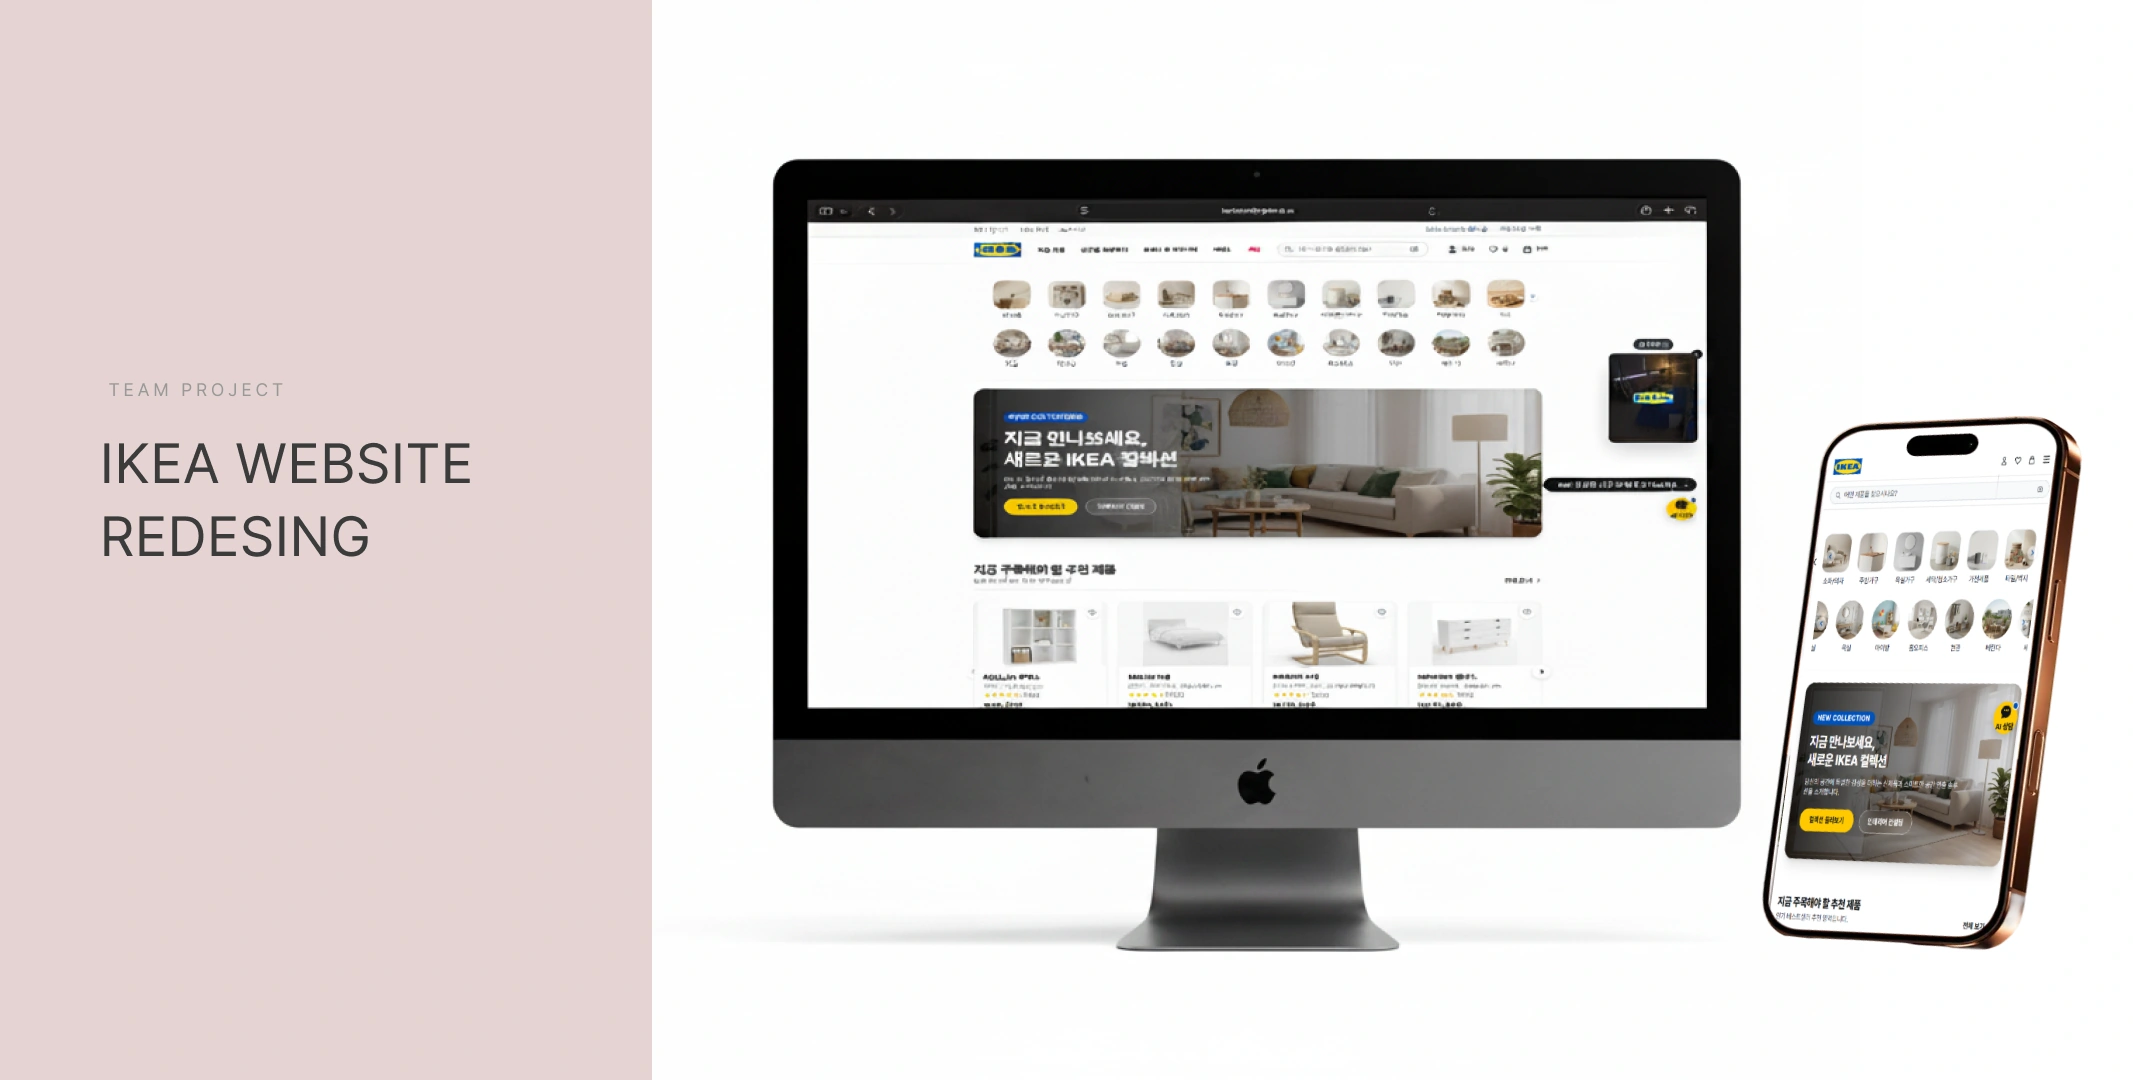
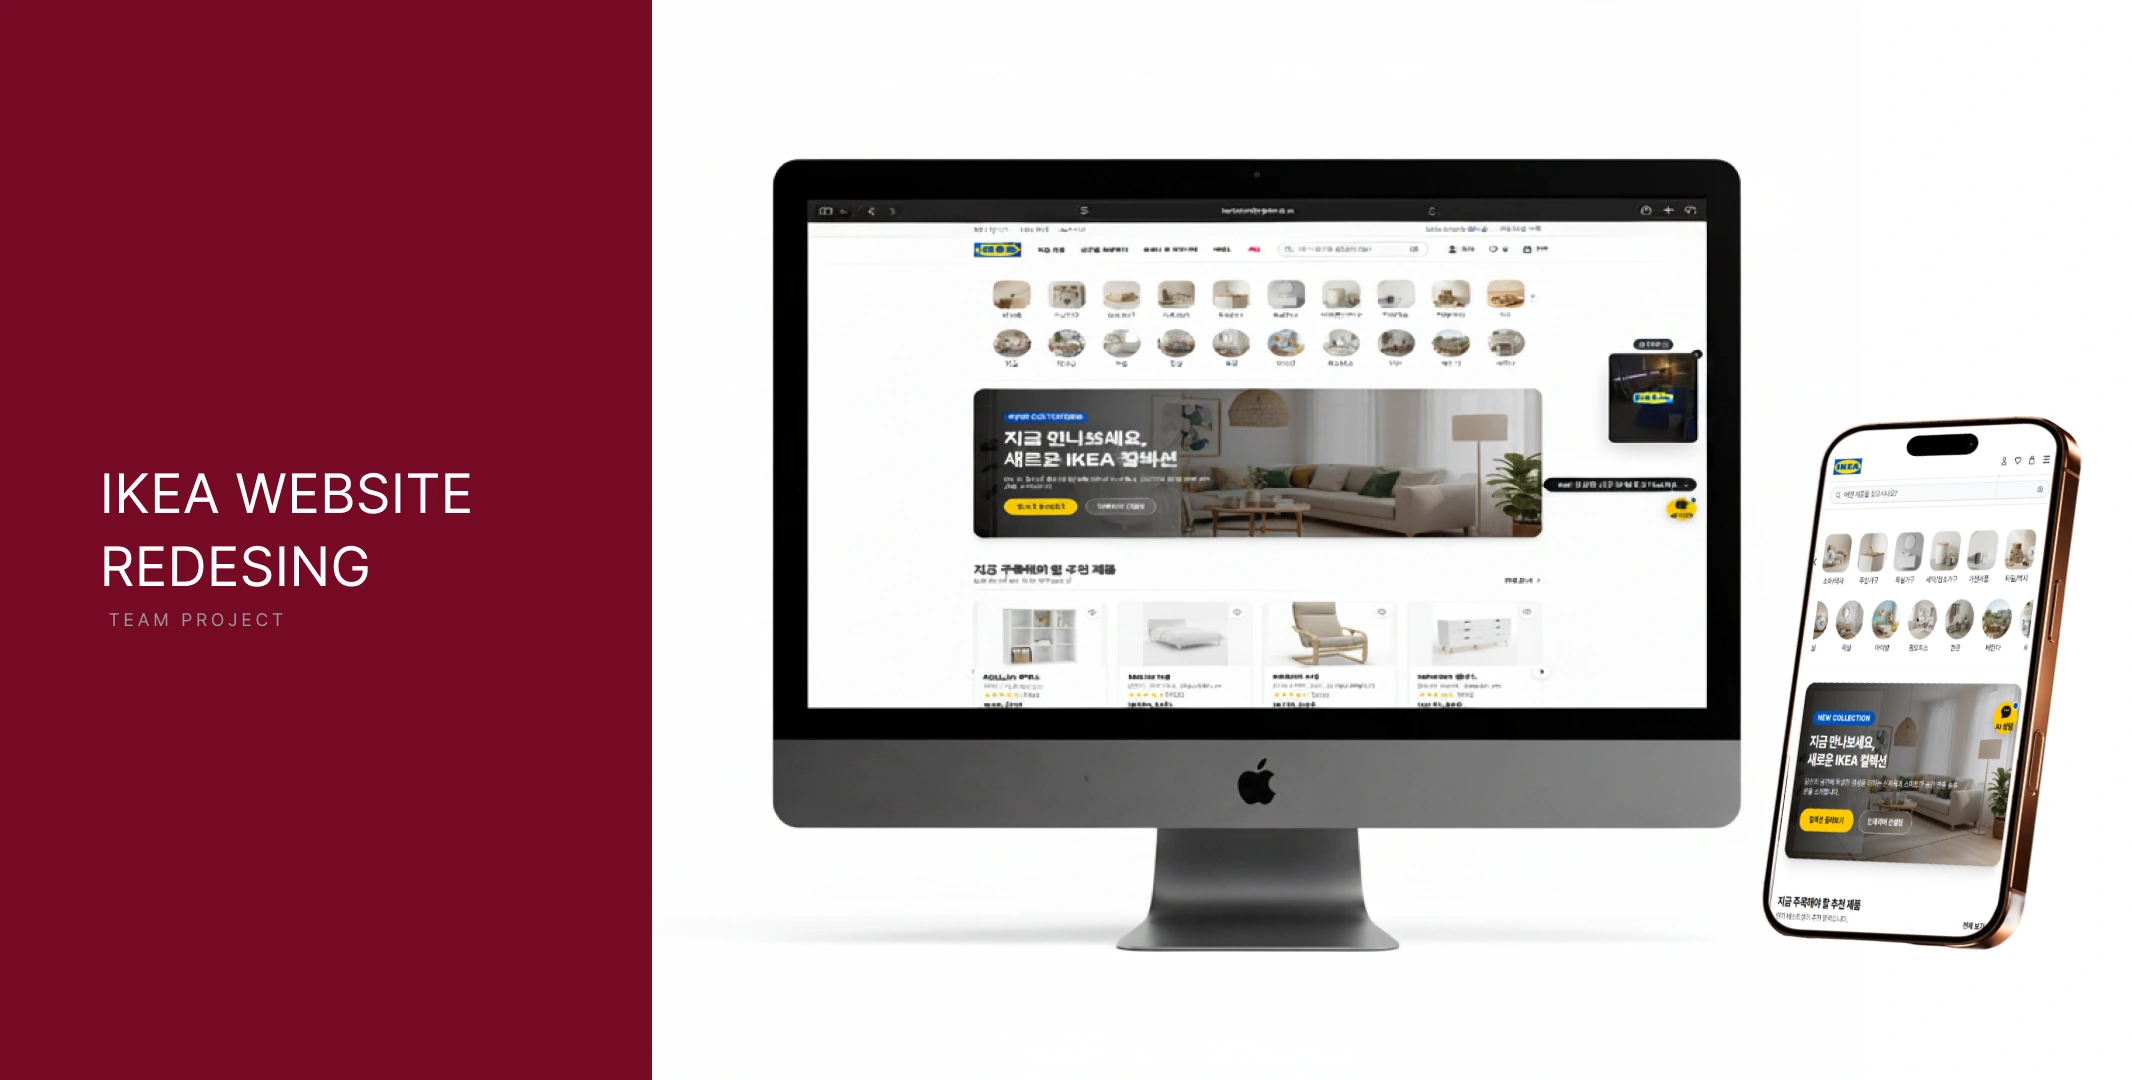
feat: iKEA 목업을 갱신본으로 교체하고 패널 버튼을 새 배색·위치에 맞춤
목업이 갱신되며 패널이 분홍(#E5D4D2) -> 크림슨(#770A25)으로 바뀌고
글자도 흰색이 됐다. 글자 마지막 줄도 y 51.5% -> 58.0% 로 내려왔다.

- 이미지: 새 목업을 webp(q95)로 변환해 교체, 1,254KB -> 121KB.
  해상도 2133x1080 은 그대로라 frame 값은 그대로 둔다.
- 세로: 글자가 내려온 만큼 top 65% -> 68.5%. 글자 아래 남은 공간
  (58%~100%)의 한가운데라 위아래 여백이 거의 같다.
- 색: 검정(.pfr-swipe 기본값)은 크림슨 패널 위에서 거의 안 보인다.
  목업 자신의 글자와 같은 흰색으로 맞춘다 — 참고 소스(80button Wipe Left)도
  어두운 배경 기준이 흰 테두리·글자였으므로 원본 배색으로 돌아가는 것이다.
  효과는 그대로, 흰색이 왼쪽에서 채워지며 글자가 패널색으로 뒤집힌다.

Claude-Session: https://claude.ai/code/session_01TsBWGVNPGr4DLwX2VBp6Qj

diff --git a/src/index.css b/src/index.css
@@ -817,23 +817,28 @@ body {
   left: 0;
 }
 
-/* 목업 그림 안 왼쪽 분홍 패널 위에 얹는 버튼(iKEA, 요청) ------------------
-   기준은 project-ikea-mockup.webp (2133 x 1080). 목업 안 분홍 패널을 실측해
-   그 안에 자리를 잡는다 — 패널은 x 0~30.5%, 제목 마지막 줄이 y 51.5% 에서
-   끝난다.
-   가로는 패널 한가운데다 — 처음엔 제목 글자(x 4.88%)에 왼쪽을 맞췄는데
-   패널 안에서 왼쪽으로 쏠려 보인다는 요청으로 가운데로 옮겼다.
-   left 7.76% = (30.52 - 15) / 2 이라 좌우 여백이 같다.
-   세로는 제목 아래 남은 공간(51.5% ~ 100%)의 한가운데다 — 버튼 묶음 높이가
-   약 21% 라 top 65% 면 위아래 여백이 거의 같아진다.
+/* 목업 그림 안 왼쪽 패널 위에 얹는 버튼(iKEA, 요청) ----------------------
+   기준은 project-ikea-mockup.webp (2133 x 1080). 목업 안 패널을 실측해 그
+   안에 자리를 잡는다 — 패널은 x 0~30.5%, 글자는 x 4.88%~21.99% 에 있고
+   마지막 줄이 y 58.0% 에서 끝난다(목업이 갱신되며 51.5% -> 58.0% 로 내려왔다).
+   가로는 패널 한가운데다 — left 7.76% = (30.52 - 15) / 2 라 좌우 여백이 같다.
+   세로는 글자 아래 남은 공간(58% ~ 100%)의 한가운데다 — 버튼 묶음 높이가
+   약 21% 라 top 68.5% 면 위아래 여백이 거의 같아진다.
    크기는 다른 버튼(.pfr-swipe)보다 한 단계 작게 쓴다(요청) — 목업 안에
    들어가는 버튼이라 원래 크기면 패널을 꽉 채운다.
-   색·모양은 다른 버튼과 똑같다(요청으로 목업에서 딴 자주색을 걷어냈다) —
-   검정 테두리·글자에, 호버하면 검정이 왼쪽에서 채워지며 글자가 흰색이 된다. */
+
+   [색을 흰색으로 두는 이유]
+   요청으로 한 번 검정(.pfr-swipe 기본값)으로 되돌렸었는데, 그 뒤 목업이
+   갱신되며 패널이 분홍(#E5D4D2)에서 진한 크림슨(#770A25)으로 바뀌었다 —
+   검정 테두리·글자는 그 위에서 거의 안 보인다. 목업 자신의 글자도 흰색
+   (#FFFFFF)이라 흰색으로 맞춘다. 원래 참고 소스(80button Wipe Left)도
+   어두운 배경 기준이 흰 테두리·글자였으므로(위 .pfr-swipe 주석 참조)
+   이건 새 색이 아니라 그 원본 배색으로 돌아가는 것이다.
+   효과는 그대로 — 흰색이 왼쪽에서 채워지며 글자가 패널색으로 뒤집힌다. */
 .pfr-buttons--panel {
   position: absolute;
   left: 7.76%;
-  top: 65%;
+  top: 68.5%;
   width: 15%;
   flex-direction: column;
   flex-wrap: nowrap;
@@ -845,6 +850,17 @@ body {
   height: calc(34 * var(--u));
   padding-inline: calc(12 * var(--u));
   font-size: calc(14 * var(--u));
+  border-color: #ffffff;
+  color: #ffffff;
+}
+
+.pfr-swipe--panel::after {
+  background: #ffffff;
+}
+
+.pfr-swipe--panel:hover,
+.pfr-swipe--panel:focus-visible {
+  color: #770a25; /* 목업 패널색 */
 }
 
 /* 모바일 캔버스(1280 미만) — 390 폭 · 좌우 거터 20 에 맞춘다.
